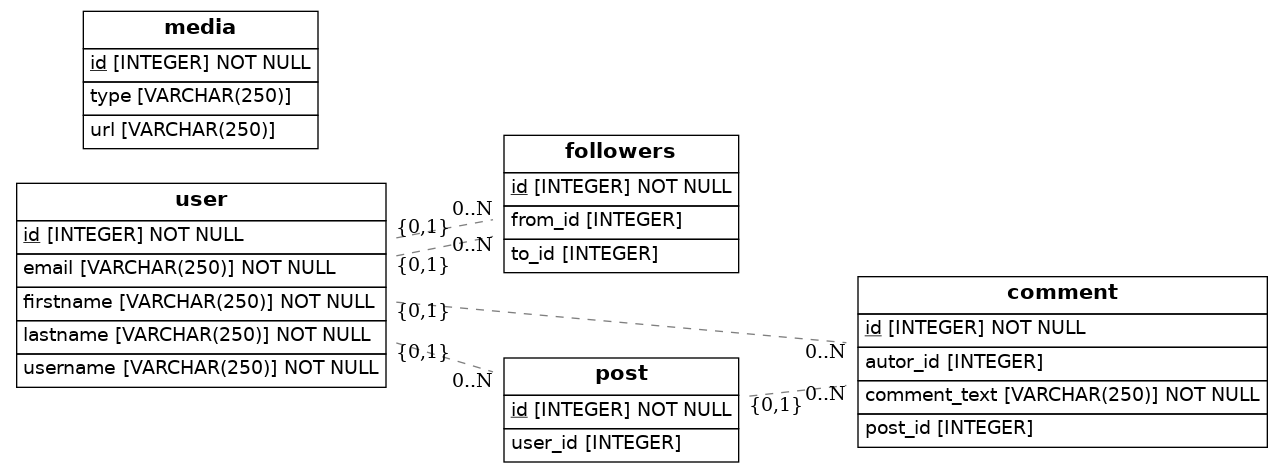
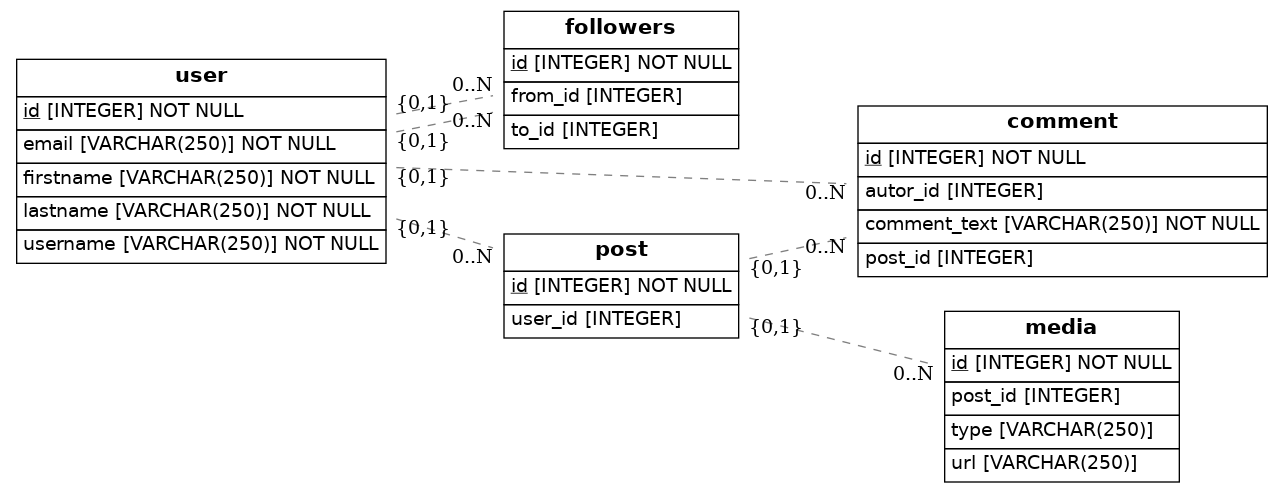
Pronto

Changed region(s): [[0.0, 0.0, 0.9977, 1.0], [0.4053, 0.74, 0.5612, 0.7992], [0.3118, 0.2664, 0.3429, 0.296]]

diff --git a/src/models.py b/src/models.py
@@ -52,7 +52,7 @@ class Media (Base):
     id = Column(Integer, primary_key=True)
     type = Column(String(250))
     url = Column(String(250))
-    post_id = relationship('post.id', backref='post', lazy=True) 
+    post_id = Column(Integer, ForeignKey('post.id')) 
 
     def to_dict(self):
         return {}
